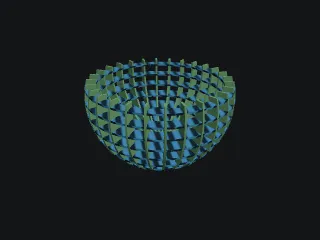
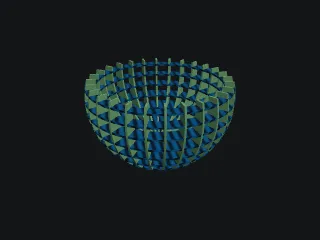
3D view: the second family of every two-family technique carries stripes and a different lightness; previews made again

Changed region(s): [[0.25, 0.2625, 0.75, 0.7292]]

diff --git a/web/static/js/scene.js b/web/static/js/scene.js
@@ -2,7 +2,7 @@ import * as THREE from 'three';
 import {OrbitControls} from '../vendor/OrbitControls.js';
 import {STLLoader} from '../vendor/STLLoader.js';
 import {state, ST} from './state.js';
-import {COLORS, LOOKS, PLANE_IDX} from './catalog.js';
+import {COLORS, LOOKS, PLANE_IDX, STRIPED} from './catalog.js';
 import {$, status} from './util.js';
 import {highlight, deselect, drawGizmo} from './edit3d.js';
 
@@ -56,7 +56,10 @@ let lastFrame=performance.now();
 export function mat4(M){return new THREE.Matrix4().set(...M[0],...M[1],...M[2],...M[3])}
 function shape(rings){const s=new THREE.Shape(rings[0].map(([x,y])=>new THREE.Vector2(x,y)));for(const h of rings.slice(1))s.holes.push(new THREE.Path(h.map(([x,y])=>new THREE.Vector2(x,y))));return s}
 export function applyLook(){const k=$('#look').value,op=+$('#opacity').value;for(const m of parts.children){if(m.userData.group==='B')continue;   // a lobe boundary is a guide, not material: it keeps its own look
-  const [c,r,me]=k==='group'?[COLORS[m.userData.group]||0xaaaaaa,.7,.05]:LOOKS[k];m.material.color.set(m.userData.bad?0xff5555:c);m.material.roughness=r;m.material.metalness=me;
+  const [c,r,me]=k==='group'?[COLORS[m.userData.group]||0xaaaaaa,.7,.05]:LOOKS[k],col=m.material.color.set(m.userData.bad?0xff5555:c);m.material.roughness=r;m.material.metalness=me;
+  // a material look gives every part one colour: the striped family moves .3 in lightness away from it (lighter on a
+  // dark look, darker on a light one), so it differs even on a cut edge seen end-on, where no stripe shows
+  if(k!=='group'&&!m.userData.bad&&STRIPED.includes(m.userData.group)){const h={};col.getHSL(h,THREE.SRGBColorSpace);col.setHSL(h.h,h.s,h.l>.5?h.l-.3:h.l+.3,THREE.SRGBColorSpace)}
   const tr=m.userData.group==='F'&&op<1;m.material.transparent=tr;m.material.opacity=tr?op:1;m.material.depthWrite=!tr}ST.dirty=true}
 // rotation rings (OrcaSlicer-style): drag a ring to turn the whole model about that axis
 function renderRings(){
@@ -102,13 +105,14 @@ function renderGuides(){
   (ST.plan.curve_pts||[]).forEach(([u,v,w=0],i)=>{const s=onTop(new THREE.Mesh(new THREE.SphereGeometry(r*1.5,12,8),new THREE.MeshBasicMaterial({color:0x4f8cff})));s.userData.cp=i;   // a handle: drag it in the curve's plane
     s.position.copy(mid).addScaledVector(V3(ST.plan.axes[idx[0]]),u).addScaledVector(V3(ST.plan.axes[idx[1]]),v).addScaledVector(V3(ST.plan.axes[wi]),w);guides.add(s)})
 }
-// Diagonal stripes on the ring slices: a radial job's two families differ by pattern, not only by colour (the owner is
-// colour-blind, and the old red rings between green half-slices were one colour to him). On the faces' own mm
-// coordinates, about 14 stripes across the model whatever its size, so they read at the library's 320 × 240 too
-const STRIPES=(()=>{const c=document.createElement('canvas');c.width=c.height=16;const g=c.getContext('2d');g.fillStyle='#fff';g.fillRect(0,0,16,16);g.fillStyle='#111';g.fillRect(0,0,16,8);
-  const t=new THREE.CanvasTexture(c);t.wrapS=t.wrapT=THREE.RepeatWrapping;t.rotation=Math.PI/4;return t})();
+// Diagonal stripes on the second family of a technique (STRIPED): two families differ by pattern, not only by colour
+// (the owner is colour-blind, and the old red rings between green half-slices were one colour to him). On the faces'
+// own mm coordinates, about 20 stripes across the model whatever its size, so they read at the library's 320 × 240
+// too. sRGB, so the band is the dark it is drawn as (read as linear it came out a light grey)
+const STRIPES=(()=>{const c=document.createElement('canvas');c.width=c.height=16;const g=c.getContext('2d');g.fillStyle='#fff';g.fillRect(0,0,16,16);g.fillStyle='#555';g.fillRect(0,0,16,8);
+  const t=new THREE.CanvasTexture(c);t.colorSpace=THREE.SRGBColorSpace;t.wrapS=t.wrapT=THREE.RepeatWrapping;t.rotation=Math.PI/4;return t})();
 export function render3D(modelUrl){
-  parts.clear(); let i=0; STRIPES.repeat.setScalar(14/Math.max(...ST.plan.bbox));
+  parts.clear(); let i=0; STRIPES.repeat.setScalar(20/Math.max(...ST.plan.bbox));
   for(const s of ST.plan.slices)for(const pc of s.pieces){
     const geos=[],own=[];   // own: the facet each solid was extruded from, for the fold slider
     pc.facets.forEach((fc,fi)=>{for(const r of fc.rings){
@@ -119,11 +123,13 @@ export function render3D(modelUrl){
         if(ext.length<3)continue;
         const g=new THREE.ExtrudeGeometry(shape([ext,...r.slice(1)]),{depth:t/n,bevelEnabled:false});g.translate(0,0,-t/2+j*t/n);g.applyMatrix4(mat4(fc.M));geos.push(g);own.push(fi)}}});
     if(!geos.length)continue;
-    const m=new THREE.Mesh(mergeGeos(geos),new THREE.MeshStandardMaterial({color:COLORS[s.group]||0xaaaaaa,roughness:.7,metalness:.05,map:s.group==='C'?STRIPES:null}));
+    const m=new THREE.Mesh(mergeGeos(geos),new THREE.MeshStandardMaterial({color:COLORS[s.group]||0xaaaaaa,roughness:.7,metalness:.05,map:STRIPED.includes(s.group)?STRIPES:null}));
     m.userData={slice:s.label,piece:pc.label,group:s.group,i:i++,origin:new THREE.Vector3(s.M[0][3],s.M[1][3],s.M[2][3]),normal:new THREE.Vector3(s.M[0][2],s.M[1][2],s.M[2][2]),bad:s.errors.length>0};
     // a part with errors is red and netted with dark lines (the ✗ of the results list): red alone is lost on a colour-blind
-    // eye. The net shares the part's geometry, so it folds with it; it takes no clicks, the part does
-    if(m.userData.bad){const net=new THREE.Mesh(m.geometry,new THREE.MeshBasicMaterial({color:0x111111,wireframe:true}));net.raycast=()=>{};m.add(net)}
+    // eye. The net shares the part's geometry, so it folds with it; it takes no clicks, the part does; the faces sit a
+    // step back in depth so the net never fights them
+    if(m.userData.bad){const net=new THREE.Mesh(m.geometry,new THREE.MeshBasicMaterial({color:0x111111,wireframe:true}));net.raycast=()=>{};m.add(net);
+      Object.assign(m.material,{polygonOffset:true,polygonOffsetFactor:1,polygonOffsetUnits:1})}
     if(pc.facets.some(f=>f.hinge)){let o=0;   // a folded panel: where each facet's vertices are, to swing them about their fold lines
       m.userData.fold={base:m.geometry.attributes.position.array.slice(),hinges:pc.facets.map(f=>f.hinge||null),
         ranges:geos.map((g,j)=>{const n=g.index?g.index.count:g.attributes.position.count,r=[o,n,own[j]];o+=n;return r})}}

diff --git a/web/static/js/catalog.js b/web/static/js/catalog.js
@@ -97,6 +97,10 @@ export const SHEETS={
   foam:[['20 × 30 in · 508 × 762 mm',inch(20,30)],['32 × 40 in · 813 × 1016 mm',inch(32,40)],['40 × 60 in · 1016 × 1524 mm',inch(40,60)],['A2 · 594 × 420 mm',[594,420]],['A1 · 841 × 594 mm',[841,594]],['A0 · 1189 × 841 mm',[1189,841]],['1000 × 2000 mm',[1000,2000]]],
   // print beds: one sheet is one plate
   print:[['180 × 180 mm bed',[180,180]],['220 × 220 mm bed',[220,220]],['250 × 210 mm bed',[250,210]],['256 × 256 mm bed',[256,256]],['300 × 300 mm bed',[300,300]],['325 × 320 mm bed',[325,320]],['350 × 350 mm bed',[350,350]]]};
-export const COLORS={X:0xd9a760,Y:0x7fb0d9,S:0xd9c080,R:0x8fd08f,C:0x56b4e9,F:0xc9a0e0,J:0xf0c060,P:0x9a9a9a,B:0x4fd1ff,W:0x0072b2};
+export const COLORS={X:0xd9a760,Y:0x7fb0d9,S:0xd9c080,R:0x8fd08f,C:0x0072b2,F:0xc9a0e0,J:0xf0c060,P:0x9a9a9a,B:0x4fd1ff,W:0x0072b2};
+// the second family of a two-family technique (radial's rings, interlocked's, curve's and a plaque's Y, folded's joint
+// parts): striped, and under a material look set apart in lightness, so the two never differ by hue alone (the owner
+// is colour-blind)
+export const STRIPED='CYJ';
 export const LOOKS={cardboard:[0xb98a5a,.9,0],paper:[0xf2f0e6,.95,0],plywood:[0xd9b98a,.7,0],steel:[0xaab2bb,.35,.8],plastic:[0x6fb7e8,.25,.05],brass:[0xc9a44c,.3,.85],copper:[0xc27a52,.3,.85],foam:[0x45484f,.95,0]};
 export const PLANE_IDX={xz:[0,2],yz:[1,2],xy:[0,1]};

diff --git a/tests/ui/test_look.py b/tests/ui/test_look.py
@@ -1,10 +1,13 @@
-"""The 3D view tells its parts apart by more than colour (the owner is colour-blind): a radial job's ring slices carry
-a stripe pattern its half-slices do not, under every look, and a part with errors carries a net of dark lines on
-top of its red."""
-from .helpers import settle, use
+"""The 3D view tells its parts apart by more than colour (the owner is colour-blind): the second family of a
+two-family technique (a radial job's ring slices, an interlocked job's Y slices) carries a stripe pattern the first
+does not, under every look, and a part with errors carries a net of dark lines on top of its red."""
+from .helpers import ON_PART, settle, use
 
 KINDS = """() => window.__t.parts().filter(m => m.userData.group !== 'B').map(m => ({group: m.userData.group,
   bad: m.userData.bad, striped: !!m.material.map, net: m.children.some(c => c.material?.wireframe)}))"""
+OFF_PLANE = "() => window.__t.applyFix({axes: [[[-72, 0, -108], [72, 0, -108]], [[0, -72, 108], [0, 72, 108]]]})"
+LUMA = """g => { const [r, gr, b] = window.__t.parts().find(m => m.userData.group === g).material.color.getStyle()
+  .match(/[\\d.]+/g).map(Number); return 0.299 * r + 0.587 * gr + 0.114 * b }"""
 
 
 def kinds(page, **where):
@@ -14,18 +17,35 @@ def kinds(page, **where):
 def test_ring_slices_are_striped_under_every_look(page):
     use(page, "dumbbell")
     assert kinds(page, group="C") and kinds(page, group="R")
-    for look in ("group", "cardboard"):
+    for look in ("group", "cardboard", "foam"):                 # foam: a dark look, the stripes must show on it too
         page.select_option("#look", look)
         assert all(k["striped"] for k in kinds(page, group="C")), look
         assert not any(k["striped"] for k in kinds(page, group="R")), look
+        # a ring seen edge-on shows no stripe: it differs from a fin in lightness too, under a material look as well
+        luma = [page.evaluate(LUMA, g) for g in "RC"]
+        assert abs(luma[0] - luma[1]) >= 40, (look, luma)
+    # one texture for every striped part, made once
+    assert len(set(page.evaluate("() => window.__t.parts().filter(m => m.material.map).map(m => m.material.map.uuid)"))) == 1
     assert not any(k["net"] for k in kinds(page))          # no errors, no net
+
+
+def test_the_y_family_of_an_interlocked_job_is_striped(page):
+    use(page, "cylinder")
+    assert kinds(page, group="X") and kinds(page, group="Y")
+    assert all(k["striped"] for k in kinds(page, group="Y"))
+    assert not any(k["striped"] for k in kinds(page, group="X"))
 
 
 def test_a_part_with_errors_carries_a_net(page):
     use(page, "dumbbell")
     # the fan axes on no plane: the half-slices lose what holds them (the case test_sheet_export's one-click fix starts from)
-    page.evaluate("() => window.__t.applyFix({axes: [[[-72, 0, -108], [72, 0, -108]], [[0, -72, 108], [0, 72, 108]]]})")
+    page.evaluate(OFF_PLANE)
     settle(page)
     assert kinds(page, bad=True), "no part with errors to look at"
     assert all(k["net"] for k in kinds(page, bad=True))
     assert not any(k["net"] for k in kinds(page, bad=False))
+    # the net takes no click: a press on a part with errors selects that part
+    label = page.evaluate("() => window.__t.parts().find(m => m.userData.bad).userData.slice")
+    xy = page.evaluate(ON_PART, label)
+    assert xy, f"{label} not on screen"
+    assert page.evaluate("([x, y]) => window.__t.pickAt(x, y)", xy) == label
